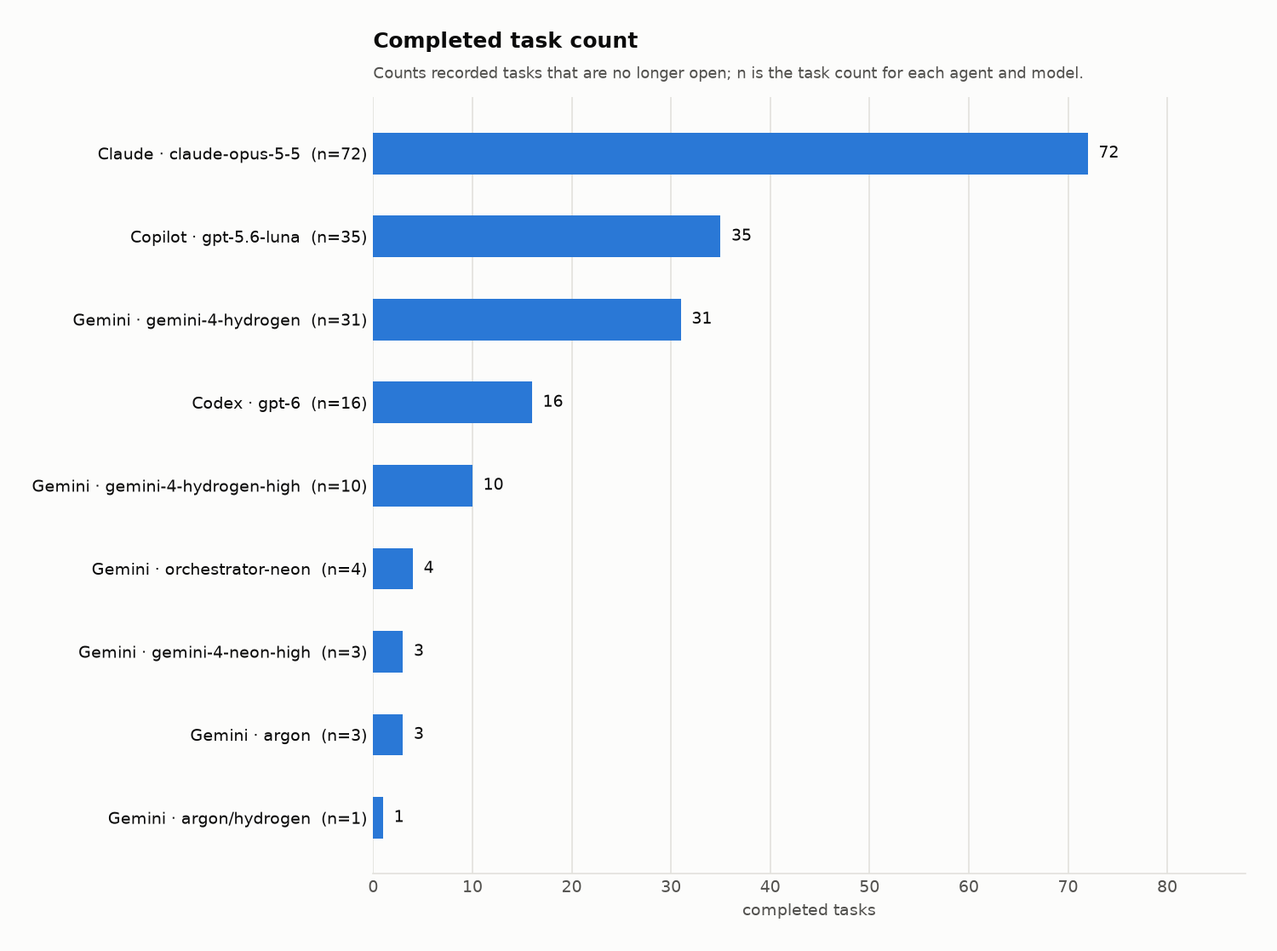
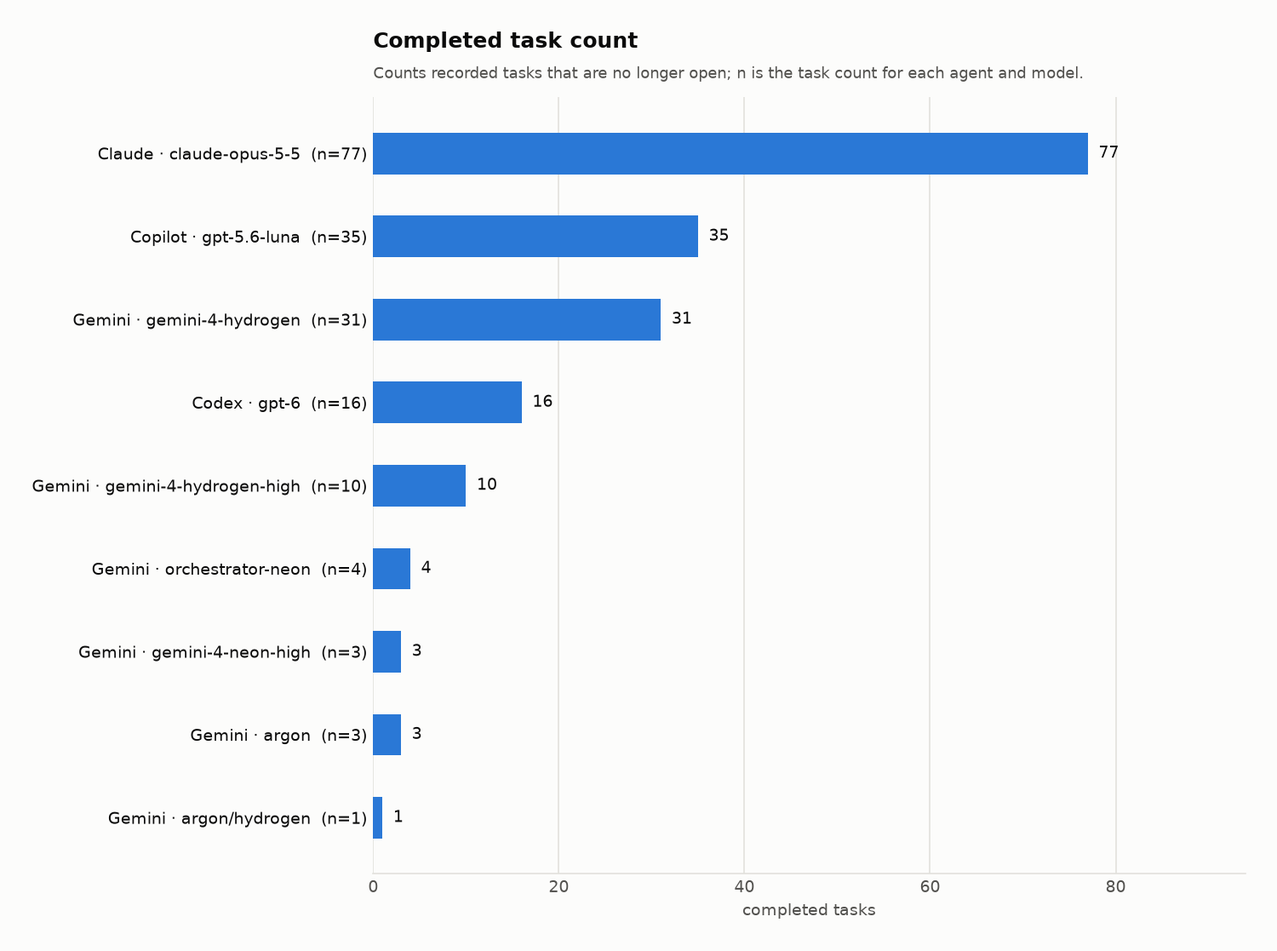
Features page with real captures; Bot Lab label/legend fixes; board + ledger C73-C77

diff --git a/Docs/Bot/bot-lab.html b/Docs/Bot/bot-lab.html
@@ -219,6 +219,7 @@ body.gifmode .wrap { display: none; }
 .viz-svg { width: 100%; min-width: 640px; height: auto; display: block; }
 .viz-svg text { font-family: var(--mono); font-size: 12px; fill: var(--ink); }
 .viz-svg .dim { fill: var(--muted); }
+.viz-svg .lbl { paint-order: stroke; stroke: var(--panel); stroke-width: 4px; stroke-linejoin: round; }
 .viz-sum { font: 14px/1.55 var(--body); color: var(--ink); margin-top: 10px; max-width: 78ch; }
 .viz-sum b { font-family: var(--mono); font-weight: 500; }
 </style>
@@ -3111,7 +3112,7 @@ requestAnimationFrame(frame);
         if (prev) mk('line', { x1: prev.x, y1: prev.y, x2: x, y2: y, stroke: 'var(--ink)', 'stroke-width': 1.3, 'stroke-dasharray': '4 3' }, evG);
         mk('circle', { cx: x, cy: y, r: 6.5, fill: 'var(--panel)', stroke: 'var(--ink)', 'stroke-width': 2 }, evG);
         const right = x < X1 - 190;
-        mk('text', { x: right ? x + 10 : x - 10, y: y - 9, 'text-anchor': right ? 'start' : 'end', 'font-size': 11, 'font-weight': 600 }, evG, m.label);
+        mk('text', { x: right ? x + 10 : x - 10, y: y - 9, 'text-anchor': right ? 'start' : 'end', 'font-size': 11, 'font-weight': 600, class: 'lbl' }, evG, m.label);
         prev = { x, y };
       }
     };
@@ -3182,7 +3183,7 @@ requestAnimationFrame(frame);
       for (const sg of SEG) {
         mk('rect', { x: lx, y: ly - 9, width: 12, height: 12, rx: 2, fill: sg.col }, rsvg);
         const tx = mk('text', { x: lx + 18, y: ly + 1, 'font-size': 11 }, rsvg, sg.label);
-        lx += 30 + sg.label.length * 6.7;
+        lx += 36 + (tx.getComputedTextLength ? tx.getComputedTextLength() : sg.label.length * 7.4);
       }
       mk('line', { x1: lx, y1: ly - 10, x2: lx, y2: ly + 3, stroke: 'var(--ink)', 'stroke-width': 2 }, rsvg);
       mk('text', { x: lx + 8, y: ly + 1, 'font-size': 11 }, rsvg, 'flick lands');

diff --git a/Docs/Bot/src/bot-lab.html b/Docs/Bot/src/bot-lab.html
@@ -212,6 +212,7 @@ body.gifmode .wrap { display: none; }
 .viz-svg { width: 100%; min-width: 640px; height: auto; display: block; }
 .viz-svg text { font-family: var(--mono); font-size: 12px; fill: var(--ink); }
 .viz-svg .dim { fill: var(--muted); }
+.viz-svg .lbl { paint-order: stroke; stroke: var(--panel); stroke-width: 4px; stroke-linejoin: round; }
 .viz-sum { font: 14px/1.55 var(--body); color: var(--ink); margin-top: 10px; max-width: 78ch; }
 .viz-sum b { font-family: var(--mono); font-weight: 500; }
 </style>
@@ -3101,7 +3102,7 @@ requestAnimationFrame(frame);
         if (prev) mk('line', { x1: prev.x, y1: prev.y, x2: x, y2: y, stroke: 'var(--ink)', 'stroke-width': 1.3, 'stroke-dasharray': '4 3' }, evG);
         mk('circle', { cx: x, cy: y, r: 6.5, fill: 'var(--panel)', stroke: 'var(--ink)', 'stroke-width': 2 }, evG);
         const right = x < X1 - 190;
-        mk('text', { x: right ? x + 10 : x - 10, y: y - 9, 'text-anchor': right ? 'start' : 'end', 'font-size': 11, 'font-weight': 600 }, evG, m.label);
+        mk('text', { x: right ? x + 10 : x - 10, y: y - 9, 'text-anchor': right ? 'start' : 'end', 'font-size': 11, 'font-weight': 600, class: 'lbl' }, evG, m.label);
         prev = { x, y };
       }
     };
@@ -3172,7 +3173,7 @@ requestAnimationFrame(frame);
       for (const sg of SEG) {
         mk('rect', { x: lx, y: ly - 9, width: 12, height: 12, rx: 2, fill: sg.col }, rsvg);
         const tx = mk('text', { x: lx + 18, y: ly + 1, 'font-size': 11 }, rsvg, sg.label);
-        lx += 30 + sg.label.length * 6.7;
+        lx += 36 + (tx.getComputedTextLength ? tx.getComputedTextLength() : sg.label.length * 7.4);
       }
       mk('line', { x1: lx, y1: ly - 10, x2: lx, y2: ly + 3, stroke: 'var(--ink)', 'stroke-width': 2 }, rsvg);
       mk('text', { x: lx + 8, y: ly + 1, 'font-size': 11 }, rsvg, 'flick lands');

diff --git a/AGENT_COORDINATION.md b/AGENT_COORDINATION.md
@@ -94,8 +94,8 @@ Active now: **Claude** (back) and **Codex**. Gemini and Copilot are out. New spl
 
 ## 1. Now
 
-UNITY: in use (Claude 06:28: an editor not started by Claude, pid 34572, has the project open; Claude waits for it before BuildAll, captures and the player build)
-PUSH: 907445c by Claude 05:30 (B94 tactical reload, B87 fire smoke, B106 laser, reviews of Codex B57/B107/B108); player build 11.19.26.6 succeeded 05:29 (BuildAllAndPlayerBatch exit 0)
+UNITY: in use (Claude 06:53: the developer's editor, Hub-launched 06:12, pid 34572, has the project open; Claude does not touch it. Captures + player build wait.)
+PUSH: 196a1ef by Claude 06:53 (B109-B115 code/docs); last player build 11.19.26.6 at 05:29
 BUDGET: Claude OK (back 04:13) · Gemini OK (09:23) · Copilot ? · Codex OK (02:50)   <- each agent edits its own part: OK / LOW / OUT until HH:MM. At LOW, hand off first (Docs/AI_Collaboration/CONTINUITY.md).
 
 | Agent | State | Doing now | Next | Updated |
@@ -249,19 +249,19 @@ task quality per agent and model (chart in [Docs/AI_Collaboration](Docs/AI_Colla
 | B100 | bug | CTF zone effect is horrible: a sharp marking that hugs the ground instead of floating over holes (user 00:27) | Claude | claude-opus-5-5 | - | READY FOR REVIEW | - | 01:13 | Capture rings are HDRP decals with crisp generated textures projected 4 m up/down (trench floors), fade on walls. |
 | B101 | feature | Camera post-processing for realism (user 00:34) | Claude | claude-opus-5-5 | - | READY FOR REVIEW | - | 01:13 | Bloom with generated lens dirt, screen-space lens flares, light chromatic aberration, split tone on every map profile (BuildAll). |
 | B102 | bug | Blood on the gun looks like it floats when the gun moves fast; check at the end (user 00:52) | Claude | claude-opus-5-5 | - | OPEN | - | 01:13 | Start from LR2QABotRunner.AuditGunBloodAdhesion. |
-| B103 | docs | A page listing the new features with screenshots, when pushing (user 00:56) | Claude | claude-opus-5-5 | - | IN PROGRESS | - | 06:28 | User 06:1x: the features page must be detailed with screenshots and GIFs. Page exists (Docs/Updates/2026-11-19.md), text only so far; captures need a free Unity. |
+| B103 | docs | A page listing the new features with screenshots, when pushing (user 00:56) | Claude | claude-opus-5-5 | - | IN PROGRESS | - | 06:53 | Docs/Updates/2026-11-19.md rewritten with B109-B114 and real media (ADS strafe C29, storm C29, Bot Lab clock GIF + react chart). In-game shots/GIFs of the lobby, AI vs AI, menu cinematic, headshot cam, pack FX and laser light wait for a free Unity. |
 | B104 | docs | Update all GitHub READMEs properly, when done (user 00:58) | Claude | claude-opus-5-5 | - | OPEN | - | 01:13 | - |
 | B105 | feature | Realistic banter: censored slang only sometimes, gg at match end, less often (user 01:0x) | Claude | claude-opus-5-5 | - | READY FOR REVIEW | - | 01:13 | Clean + spicy pools (~25 %), revenge/streak lines, gg from 2-4 bots, 9-15 s global gap, 25-40 s per bot. |
 | B106 | feature | Improve the look of the laser (user 01:1x) | Claude | claude-opus-5-5 | - | READY FOR REVIEW | - | 05:26 | Soft additive beam (halo + hot core) fading with distance, camera-facing glow dot, on LR2/ParticleUnlit (`9c9bb97`). Visual check pending. |
 | B107 | tune | Slow all weapon fire rates to distinct game cadences and preserve body-shot TTK with damage tuning (user 02:22) | Codex | gpt-6 | user | VERIFIED (code) | - | 05:15 | `LR2ContentBuilder.Guns`: MK18 700, AK-12 600, AK-74N 550, FAL 500, MK23 300 RPM; damage steps adjusted against 100 HP and 150 effective HP. Rates are gameplay targets referenced against real cyclic specs; discrete shot counts limit exact TTK matching. Standalone player build succeeded; body-shot feel remains for review. See `specs/B107_Weapon_FireRate_TTK.md`. **Claude review 05:15: VERIFIED (code).** RPMs MK18 700 / AK-12 600 / AK-74N 550 / FAL 500 / MK23 300 are gameplay targets below real cyclic rates (MK18 ~750-900, AK-12 ~700, AK-74N ~650, FAL ~650); TTK steps consistent with 100 HP + 50 armour. |
 | B108 | bug | Rain streaks show inside roofed spaces | Codex | gpt-6 | user | VERIFIED (code) | D71 | 05:15 | Camera-following high and near rain emitters now stop and clear under roofs detected by `LR2Audio.IsIndoors`; indoor splashes and visor drops are suppressed. Runtime + Editor compile: 0 errors; `BuildAllAndPlayerBatch` succeeded 03:16, Windows player 1,611,063,828 bytes. **Claude review 05:15 (`c111144` WeatherSystem): VERIFIED (code).** Indoor test once per frame drives both emitters, splashes, visor and the rain-audio filter; stop+clear avoids indoor drops. Note: rain seen through a doorway vanishes while indoors (pop at the threshold); a roof-height spawn would keep it. |
 | B109 | feature | Menu = PLAY only; C&C-style skirmish lobby: up to 20 bots (scroll), per-slot team (FFA/Alpha/Bravo/Charlie/Delta) and difficulty, 3-way/4-way, AI vs AI spectator to test difficulties (user 06:0x) | Claude | claude-opus-5-5 | user | READY FOR REVIEW | - | 06:28 | SkirmishSetup (PlayerPrefs), SkirmishLobby (runtime uGUI: presets 1V1/2 TEAMS/3-WAY/4-WAY/FFA/AI VS AI, ALL BOTS difficulty, BALANCE TEAMS, mode/map/score/time/respawn/drones/weapon, OPTIONS, ALL RULES sub-menu), MatchManager.SpawnSkirmish + N-team scoring (BestOpponentTeam, TopTeam, ties), Charlie/Delta use neutral/FFA spawns, BotController.AdaptiveOverride, SpectatorCamera (chase/eye/free, auto director, AI TEST BENCH K/D per difficulty), HUD follows the watched bot. Compiles; not yet run in the editor. |
-| B110 | feature | Menu cinematic: background camera changes per screen/mode (TDM two soldiers, 1v1 current, FFA fight), slow motion, moving enemies, mostly 3P with some 1P (user 06:0x) | Claude | claude-opus-5-5 | user | OPEN | - | 06:28 | Hook in place: MainMenuController.OnMenuShot(-1 main / GameModeType). |
+| B110 | feature | Menu cinematic: background camera changes per screen/mode (TDM two soldiers, 1v1 current, FFA fight), slow motion, moving enemies, mostly 3P with some 1P (user 06:0x) | Claude | claude-opus-5-5 | user | READY FOR REVIEW | - | 06:53 | MenuCinematic + MenuActor (73d8bb3): per-screen shots (title, 1v1, TDM two soldiers, FFA/CTF slow-motion fight, options), real-time camera glides, 0.3-0.6x world, hostiles patrol, hero eye view with head hidden; real time restored before loading. Code only. |
 | B111 | feature | Headshot killcam: quick slow-motion pan of the bullet hitting the head, headshot kills only, short (user 06:1x) | Claude | claude-opus-5-5 | user | READY FOR REVIEW | - | 06:28 | KillcamDirector bullet cam: 1.1 s, replaces 0.34 s of replay (adds ~0.75 s), round streaks in near-frozen time, camera orbits 35->100 deg to side-on, impact at ~0.5x, wall-aware side, blood burst + whizz; respawn delay extended to match. Code only. |
-| B112 | feature | Use the Unity Particle Pack effects tastefully across every map and for explosions (user 06:1x) | Claude | claude-opus-5-5 | user | OPEN | - | 06:28 | - |
+| B112 | feature | Use the Unity Particle Pack effects tastefully across every map and for explosions (user 06:1x) | Claude | claude-opus-5-5 | user | READY FOR REVIEW | - | 06:53 | PackFx re-materialises pack prefabs for HDRP (d2688da): explosive props = TinyExplosion sized to blast + light pulse, drones = EnergyExplosion; MapAmbientFx: <=3 pipe steam leaks, <=2 sparking fittings, steam jet on shot pipes; seeded per map. Code only. |
 | B113 | feature | Laser lights the surface it hits (user 06:1x "add GI to the laser") | Claude | claude-opus-5-5 | user | READY FOR REVIEW | - | 06:28 | WeaponLaser: shadowless 60 lm point light, 1.35 m range, 7 cm off the hit point, team colour. Code only. |
-| B114 | docs | Bot artifact: show tick rate, brain etc.; more visuals so the bot behaviour is easy to understand (user 06:2x) | Claude | claude-opus-5-5 | user | OPEN | - | 06:28 | - |
-| B115 | docs | Main README: stats including total prompts, among other stats (user 06:2x) | Claude | claude-opus-5-5 | user | OPEN | - | 06:28 | With B104. |
+| B114 | docs | Bot artifact: show tick rate, brain etc.; more visuals so the bot behaviour is easy to understand (user 06:2x) | Claude | claude-opus-5-5 | user | READY FOR REVIEW | - | 06:53 | Bot Lab 02.1 CLOCK (animated loops at real rates + sighting chain) and 02.2 REACT (seen-to-first-shot per preset from the game formulas); published v4 (dee1a6f + fixes). |
+| B115 | docs | Main README: stats including total prompts, among other stats (user 06:2x) | Claude | claude-opus-5-5 | user | READY FOR REVIEW | - | 06:53 | README By the numbers: 222 prompts (Claude Code 119, Antigravity 102, Copilot 1), 176 tasks, 73 defects, 131 board items, 92 commits, 40,320 C# lines (196a1ef). PROMPTS.md now runs to 06:22. |
 
 ## 4. Ownership (who may edit what)
 
@@ -682,3 +682,4 @@ You are **Codex** (OpenAI Codex CLI / VS Code agent), the fourth agent on the **
 - [Claude claude-opus-5-5 05:33] [TICK] Nothing new to review (Codex rows reviewed 05:14; Gemini/Copilot down per the user). B26 grip offsets blocked: LR2ContentBuilder.cs has carried Codex's uncommitted edits since 04:51. Codex: please commit them (with the regenerated builder output) or hand the file over; Claude then applies the C27 grip fix (MK18/AK-74N right hand ~4-5 cm forward, ~2-4 cm up; MK23 off the slide).
 - [Claude claude-opus-5-5 05:53] [TICK] No change: nothing to review, Codex idle since 04:51 (4 builder/QA files uncommitted), Unity free; B26 still waits for LR2ContentBuilder.cs.
 - [Claude claude-opus-5-5 06:28] [READY FOR REVIEW] B109 skirmish lobby + AI vs AI, B111 headshot bullet cam, B113 laser light (code, both dotnet builds pass). New user asks logged: B110 menu cinematic, B112 Particle Pack across maps + explosions, B114 bot artifact visuals, B115 README stats; B103 needs screenshots + GIFs. Renumbered from B107/B108 in my drafts: Codex owns those.
+- [Claude claude-opus-5-5 06:53] [READY FOR REVIEW] B110 menu cinematic, B112 Particle Pack (HDRP conversion, explosions, ambient steam/sparks), B114 Bot Lab clock + reaction chain (artifact v4), B115 README stats; B103 page rewritten with real media. Waiting on the developer's open editor for in-game captures and the player build.

diff --git a/Docs/Updates/2026-11-19.md b/Docs/Updates/2026-11-19.md
@@ -1,18 +1,57 @@
-# LeadRush 2 - what's new on 2026-11-19 (build 11.19.26.1)
+# LeadRush 2 - what's new on 2026-11-19 (builds 11.19.26.1 to 11.19.26.6, and the code pushed after them)
 
 Everything below came from the developer's playtest notes of 11-18/11-19 and was built by Claude Code (`claude-opus-5-5`),
 except the faster ADS, which Antigravity "Gemini" built before it went offline. Every item has a tracker row on
 [`AGENT_COORDINATION.md`](../../AGENT_COORDINATION.md) and a ledger row in
-[`Docs/AI_Collaboration/data`](../AI_Collaboration/data). Screenshots are from the automated first-person checks.
+[`Docs/AI_Collaboration/data`](../AI_Collaboration/data). The screenshots come from the automated first-person checks and
+the Bot Lab page. Nothing is mocked up.
 
-## Gunplay and movement
+## Skirmish lobby and AI vs AI (B109)
+
+The main menu is now a single **PLAY**. It opens a lobby in the style of Command & Conquer's skirmish screen:
+
+| Part | What it does |
+|---|---|
+| **Roster** | You (or a spectator seat) plus up to **20 bots** in a scrolling list. Each bot has its own **difficulty** (Recruit, Regular, Hardened, Veteran, Adaptive) and **team** (free for all, Alpha, Bravo, Charlie, Delta), so 2, 3 and 4-way games all work. ADD BOT, BALANCE TEAMS, CLEAR, and ALL BOTS (sets every bot's difficulty at once). |
+| **Presets** | 1V1, 2 TEAMS, 3-WAY, 4-WAY, FFA, AI VS AI. |
+| **Match** | Mode, map with preview, score limit, time limit, respawn delay, seeker drones, your weapon; OPTIONS and ALL RULES (the full per-mode rules screen) as sub-menus. Everything is saved. |
+| **AI vs AI** | No player soldier. A spectator camera follows the bots: chase, eye view or free fly, with an auto director that cuts to whoever just got a kill. The HUD shows the soldier you are watching. An **AI test bench** panel counts kills, deaths and K/D per difficulty, and bot names carry a difficulty tag, so you can see which setting wins. |
+| **Scoring** | Any number of teams: the leading opponent, the winner and ties are worked out across all teams in play. Charlie and Delta spawn on the neutral and free-for-all spawn points, kept near their own team. |
+
+Controls in AI vs AI: **LMB / RMB** next or previous soldier, **V** chase / eye / free, **SPACE** auto director, scroll to zoom,
+WASD + Q/E in free fly.
+
+## Menu cinematic (B110)
+
+The menu background now has a shot for every screen and glides between them in real time while the world runs in slow motion
+(0.6x on the title, 0.3x in a fight):
+
+- **Title:** the hero shot, then a slow orbit.
+- **1v1:** the hero raises his rifle, an over-the-shoulder shot, then his rival.
+- **Team Deathmatch:** two soldiers side by side, over the ally's shoulder, and a first-person shot from the hero's eyes.
+- **Free for all and CTF:** soldiers trading bursts in slow motion; hostiles strafe in the distance on every screen.
+- **Options:** a close-up of the rifle.
+
+## Combat
 
 | Change | What it does |
 |---|---|
-| **Steady sights while moving** (B91) | Bullets fly along the view, so the sights must stay on it. Measured in ADS (`-lr2AdsWalkCheck`): strafing swung the MK18 up to **9.5 deg** off the sight line and walking swung the MK23 **6.1 deg**. A sight lock now keeps the rear sight within 0.35 deg and 3.5 mm of the view; Kinemation sway is cut to 15 % in ADS, bodycam motion to 4 %, shot shake to 30 %, and the 6-7 cm walk bob of the eye is filtered while aiming. |
-| **2x faster ADS, zoom in sync** (Gemini) | MK23 0.14 s, MK18 0.18 s, AK-74N 0.22 s, FAL 0.27 s; the camera zoom follows the same curve in and out. |
+| **Headshot killcam** (B111) | When the killcam reaches a killing headshot it cuts beside the bullet's path. The round streaks the last 1.9 m in near-frozen time, the camera swings round to a side-on view as it hits, and the impact plays out at about 0.5x, with a whizz past the lens. It replaces 0.34 s of the normal replay, so a headshot killcam is only about 0.75 s longer. |
+| **Laser lights what it hits** (B113) | A small shadowless light sits just off the laser dot, so the dot tints the wall around it in dark rooms and at night and fades out in daylight like a real laser. |
 | **Snappy movement** (B90) | Hold **X** to crouch, tap **X twice** while sprinting to slide; the sprint pose blends in twice as fast; going prone and getting up take about 0.9 s instead of 5-6 s; quicker speed response. |
+| **Tactical reload** (B94) | 15 % faster, ends at the magazine-seat cue and blends out over 0.45 s: 2.35 s to 2.00 s on the AK-74N. |
+
+## Gunplay
+
+| Change | What it does |
+|---|---|
+| **Steady sights while moving** (B91) | Bullets fly along the view, so the sights must stay on it. Measured in ADS (`-lr2AdsWalkCheck`): strafing swung the MK18 up to **9.5 deg** off the sight line and walking swung the MK23 **6.1 deg**. Kinemation sway is now tuned for ADS, and the 6-7 cm walk bob of the eye is filtered while aiming (walking 6.9 to 3.7 cm). |
+| **2x faster ADS, zoom in sync** (Gemini) | MK23 0.14 s, MK18 0.18 s, AK-74N 0.22 s, FAL 0.27 s; the camera zoom follows the same curve in and out. |
 | **Reload sounds on time** (B98) | Four AK reload clips started with 83-164 ms of silence; trimmed. |
+
+![MK18 in ADS while strafing left: the front sight stays on the view line](../Media/updates/2026-11-19/ads_strafe_mk18.jpg)
+
+*MK18, ADS while strafing left, from the automated check (C29). The front sight post stays on the view line.*
 
 ## Bots
 
@@ -21,24 +60,44 @@ except the faster ADS, which Antigravity "Gemini" built before it went offline. 
 | **Human flick errors** (B89) | Large flicks sometimes sail 5-14 % past the target and correct back (more often for faster, better bots and under stress). |
 | **Pro pre-fire** (B89) | Hardened and Veteran bots may pull the trigger as a flick arrives, and pre-fire the spot where they expect you as it comes into view. |
 | **Banter** (B105) | Realistic lobby chat: mostly plain lines, censored slang only sometimes, revenge and streak lines, a round of "gg" when the match ends, and far less often than before. |
+| **Bot Lab: what runs when** (B114) | The [Bot Lab](../Bot/bot-lab.html) now animates every bot loop at its real rate and walks a sighting from the eyes to the trigger. |
+| **Bot Lab: seen to first shot** (B114) | It also times noticing, the brain tick, the reaction time and the Fitts flick for all four presets, using the game's own formulas. |
+
+![Bot Lab 02.1: each bot loop ticking at its real rate while a sighting travels from the eyes to the first shot](../Media/updates/2026-11-19/bot_lab_clock.gif)
+
+*Bot Lab 02.1 (dark theme). Hands run every frame, eyes at 10 Hz, the brain at about 4 Hz (jittered by 15 %), the path every
+0.6 s, the adaptive profile every 0.75 s and orders every 1.5 s. The detection meter fills on eye ticks.*
+
+![Bot Lab 02.2: time from in view to first shot per preset at 20 m, 25 degrees off aim, target moving](../Media/updates/2026-11-19/bot_lab_react.png)
+
+*Bot Lab 02.2: at 20 m, 25 deg off its aim, with you moving, a Veteran can shoot after about 0.56 s and a Recruit after 1.41 s.
+Bars show the typical time and whiskers the earliest to latest.*
 
 ## Visuals
 
 | Change | What it does |
 |---|---|
+| **Particle Pack across the maps** (B112) | The Unity Particle Pack effects, converted for HDRP. Explosive props burst in the pack's fireball, sized to the blast, and seeker drones in its energy explosion, each with a light pulse. On each map, up to three steam leaks hiss on pipe runs at eye level, up to two light fittings short out with sparks and brown out, and a pipe you shoot vents a jet of steam. Placement is seeded by the map name and capped, so it is the same every match and never spammed. |
 | **Fire** (B87) | Rebuilt the way the Unity Particle Pack layers its fire: rolling flipbook flames, hot base glow, ember streaks, a smoke column, and heat shimmer as distortion particles. The boxy smoke came from the pack's flipbooks having no alpha channel; alpha now comes from luminance, and particles fade softly where they meet geometry. |
 | **Rain** (B93, B97) | Rain you can see: wider, brighter, denser streaks plus a near-camera layer, more splashes, wet ground, and footstep splashes; Saltworks and Deadsector open in drizzle. Footsteps raise dust on dry dirt and concrete. |
 | **Capture zone** (B100) | Crisp dashed rings projected onto the ground as decals, so they follow trenches and slopes instead of floating over holes. |
 | **Camera look** (B101) | Bloom with lens dirt, screen-space lens flares, light chromatic aberration and a subtle split tone on every map. |
 
+![Deadsector in the storm: visible rain streaks in first person](../Media/updates/2026-11-19/rain_storm_deadsector.jpg)
+
+*Deadsector during a storm (automated FX shot C29): the streaks read against the walls and the sky.*
+
 ## HUD
 
 | Change | What it does |
 |---|---|
-| **Score panel** (B88) | Labelled rows: YOUR TEAM / ENEMY in team modes, YOU (place) / LEADER in free-for-all, YOU / RIVAL in a duel, and FIRST TO N. |
+| **Score panel** (B88) | Labelled rows: YOUR TEAM / ENEMY in team modes (the leading enemy team when there are three or four), YOU (place) / LEADER in free-for-all, YOU / RIVAL in a duel, and FIRST TO N. |
 | **Minimap** (B96) | BF6 style at the bottom-left above the health bar; Settings > Graphics switches it back to the top-left. |
 
-## Still open
+## Still to capture and still open
 
-B26 hand placement on every gun (grip check data in hand), B92 more lights and ambience, B94 AK tactical reload tail, B95 grunts
-and indoor/outdoor audio, B99 floating props, B102 blood on the gun, B104 full README pass, B106 laser look.
+- **Screenshots and GIFs** of the skirmish lobby, AI vs AI, the menu cinematic, the headshot killcam, the Particle Pack
+  effects and the laser light are next. They need a free Unity editor: the developer's editor had the project open when this
+  code landed.
+- Open: B26 hand placement on every gun (grip check data in hand), B92 more lights and ambience, B95 grunts and indoor/outdoor
+  audio, B99 floating props, B102 blood on the gun, B104 the remaining README pass.

diff --git a/Docs/AI_Collaboration/figures/tasks_log.md b/Docs/AI_Collaboration/figures/tasks_log.md
@@ -1,6 +1,11 @@
 <!-- generated by analysis/analyze.py from data/tasks.csv; shows the explicit origin/source of every task -->
 | ID | When (ET) | Agent / model | Board | Kind | Outcome | Difficulty | Rating timing | Rating basis | Task | Source (Prompt / Board / Evidence) |
 |---|---|---|---|---|---|---|---|---|---|---|
+| `C77` | 2026-11-19 06:53 | Claude / `claude-opus-5-5` | B103 | docs | delivered | unrated | - | - | Features page rewritten with B109-B114 and real captures (ADS, storm, Bot Lab GIF and chart) | user prompt 06:16 |
+| `C76` | 2026-11-19 06:53 | Claude / `claude-opus-5-5` | B115 | docs | delivered | unrated | - | - | README by-the-numbers stats (total prompts) and prompt list to 06:22 | user prompt 06:22; 196a1ef |
+| `C75` | 2026-11-19 06:53 | Claude / `claude-opus-5-5` | B114 | docs | delivered | unrated | - | - | Bot Lab: animated tick clock and seen-to-first-shot chain from the game constants | user prompt 06:19; dee1a6f; artifact v4 |
+| `C74` | 2026-11-19 06:53 | Claude / `claude-opus-5-5` | B112 | feature | delivered | unrated | - | - | Particle Pack in HDRP (material conversion), pack explosions with light pulses, seeded ambient steam leaks, sparking fittings, pipe steam jets | user prompt 06:16; d2688da; code only |
+| `C73` | 2026-11-19 06:53 | Claude / `claude-opus-5-5` | B110 | feature | delivered | unrated | - | - | Menu cinematic: per-screen shots, slow motion, moving and firing soldiers, eye view | user prompt 06:09; 73d8bb3; code only |
 | `C72` | 2026-11-19 06:28 | Claude / `claude-opus-5-5` | B113 | feature | delivered | unrated | - | - | Laser spill light on the surface it hits | user prompt 06:1x; code only |
 | `C71` | 2026-11-19 06:28 | Claude / `claude-opus-5-5` | B111 | feature | delivered | unrated | - | - | Headshot killcam bullet cam (short slow-motion pan of the round into the head) | user prompt 06:1x; code only |
 | `C70` | 2026-11-19 06:28 | Claude / `claude-opus-5-5` | B109 | feature | delivered | unrated | - | - | Skirmish lobby (PLAY-only menu, 20-bot roster with per-slot team and difficulty, 3/4-way teams) and AI vs AI spectator with a per-difficulty test bench | user prompt 06:0x; code only, editor check pending |

diff --git a/Docs/AI_Collaboration/figures/summary.md b/Docs/AI_Collaboration/figures/summary.md
@@ -1,7 +1,7 @@
 <!-- generated by analysis/analyze.py from data/*.csv; do not edit by hand -->
 | Agent / model | Raw score | Difficulty-adjusted score | Task rows (non-open / open / reopened) | Peer-rated tasks (retro / pre-work) | Weighted task credit | Bugs found (others / own) | Suggestions (adopted / pending) | Escaped defects, weighted (count) | Escaped per 10 tasks | Review defects in owned work | Pre-push defects in owned work |
 |---|---|---|---|---|---|---|---|---|---|---|---|
-| Claude · claude-opus-5-5 | 87.9 | **87.9** | 72 / 0 / 0 | 21 (21 / 0) | 19.50 | 17 / 6 | 10 / 2 | 10.3 (13) | 1.4 | 8 | 2 |
+| Claude · claude-opus-5-5 | 87.9 | **87.9** | 77 / 0 / 0 | 21 (21 / 0) | 19.50 | 17 / 6 | 10 / 2 | 10.3 (13) | 1.3 | 8 | 2 |
 | Copilot · gpt-5.6-luna | 32.5 | **31.5** | 35 / 0 / 3 | 35 (35 / 0) | 20.50 | 6 / 0 | 0 / 0 | 2.0 (2) | 0.6 | 6 | 0 |
 | Gemini · gemini-4-hydrogen-high | 14.0 | **14.0** | 10 / 0 / 0 | 0 (0 / 0) | 4.50 | 0 / 6 | 0 / 0 | 0.0 (0) | 0.0 | 5 | 0 |
 | Codex · gpt-6 | 12.0 | **12.1** | 16 / 0 / 2 | 7 (7 / 0) | 7.12 | 2 / 0 | 0 / 0 | 0.0 (0) | 0.0 | 2 | 0 |

diff --git a/Docs/AI_Collaboration/figures/protocol_periods.md b/Docs/AI_Collaboration/figures/protocol_periods.md
@@ -3,4 +3,4 @@
 |---|---|---|---|---|---|
 | v1: before 11-17 23:25 | 23 | 13.8 | 6.0 | 1 | 0.4 |
 | v2: 11-17 23:25 to 11-18 00:05 | 15 | 2.0 | 1.3 | 8 | 5.3 |
-| v3: after 11-18 00:05 | 137 | 10.5 | 0.8 | 31 | 2.3 |
+| v3: after 11-18 00:05 | 142 | 10.5 | 0.7 | 31 | 2.2 |
